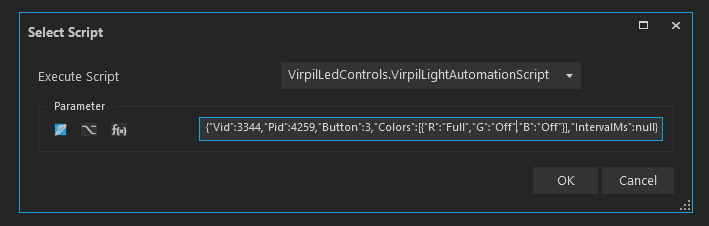
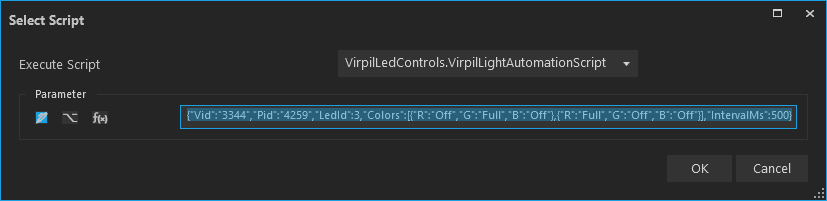
Corrected logic error in script execution. Corrected example image for readme file.

diff --git a/src/VirpilLedControls/VirpilLightAutomationScript.cs b/src/VirpilLedControls/VirpilLightAutomationScript.cs
@@ -61,13 +61,11 @@ namespace VirpilLedControls
                 throw new ArgumentException("Invalid argument. IntervalMs is required when cycling more than one color.");
             }
             
-
-            
             var device = _virpilDevices.FirstOrDefault(d => d.Pid == config.Pid);
             if (device == null)
             {
                 var hidDevice = HidDevices.Enumerate(VirpilDevice.VendorId).FirstOrDefault(d =>
-                    d.ProductId == device.Pid && 
+                    d.ProductId == config.Pid && 
                     d.VendorId == VirpilDevice.VendorId &&
                     d.Capabilities.FeatureReportByteLength > 0);
             